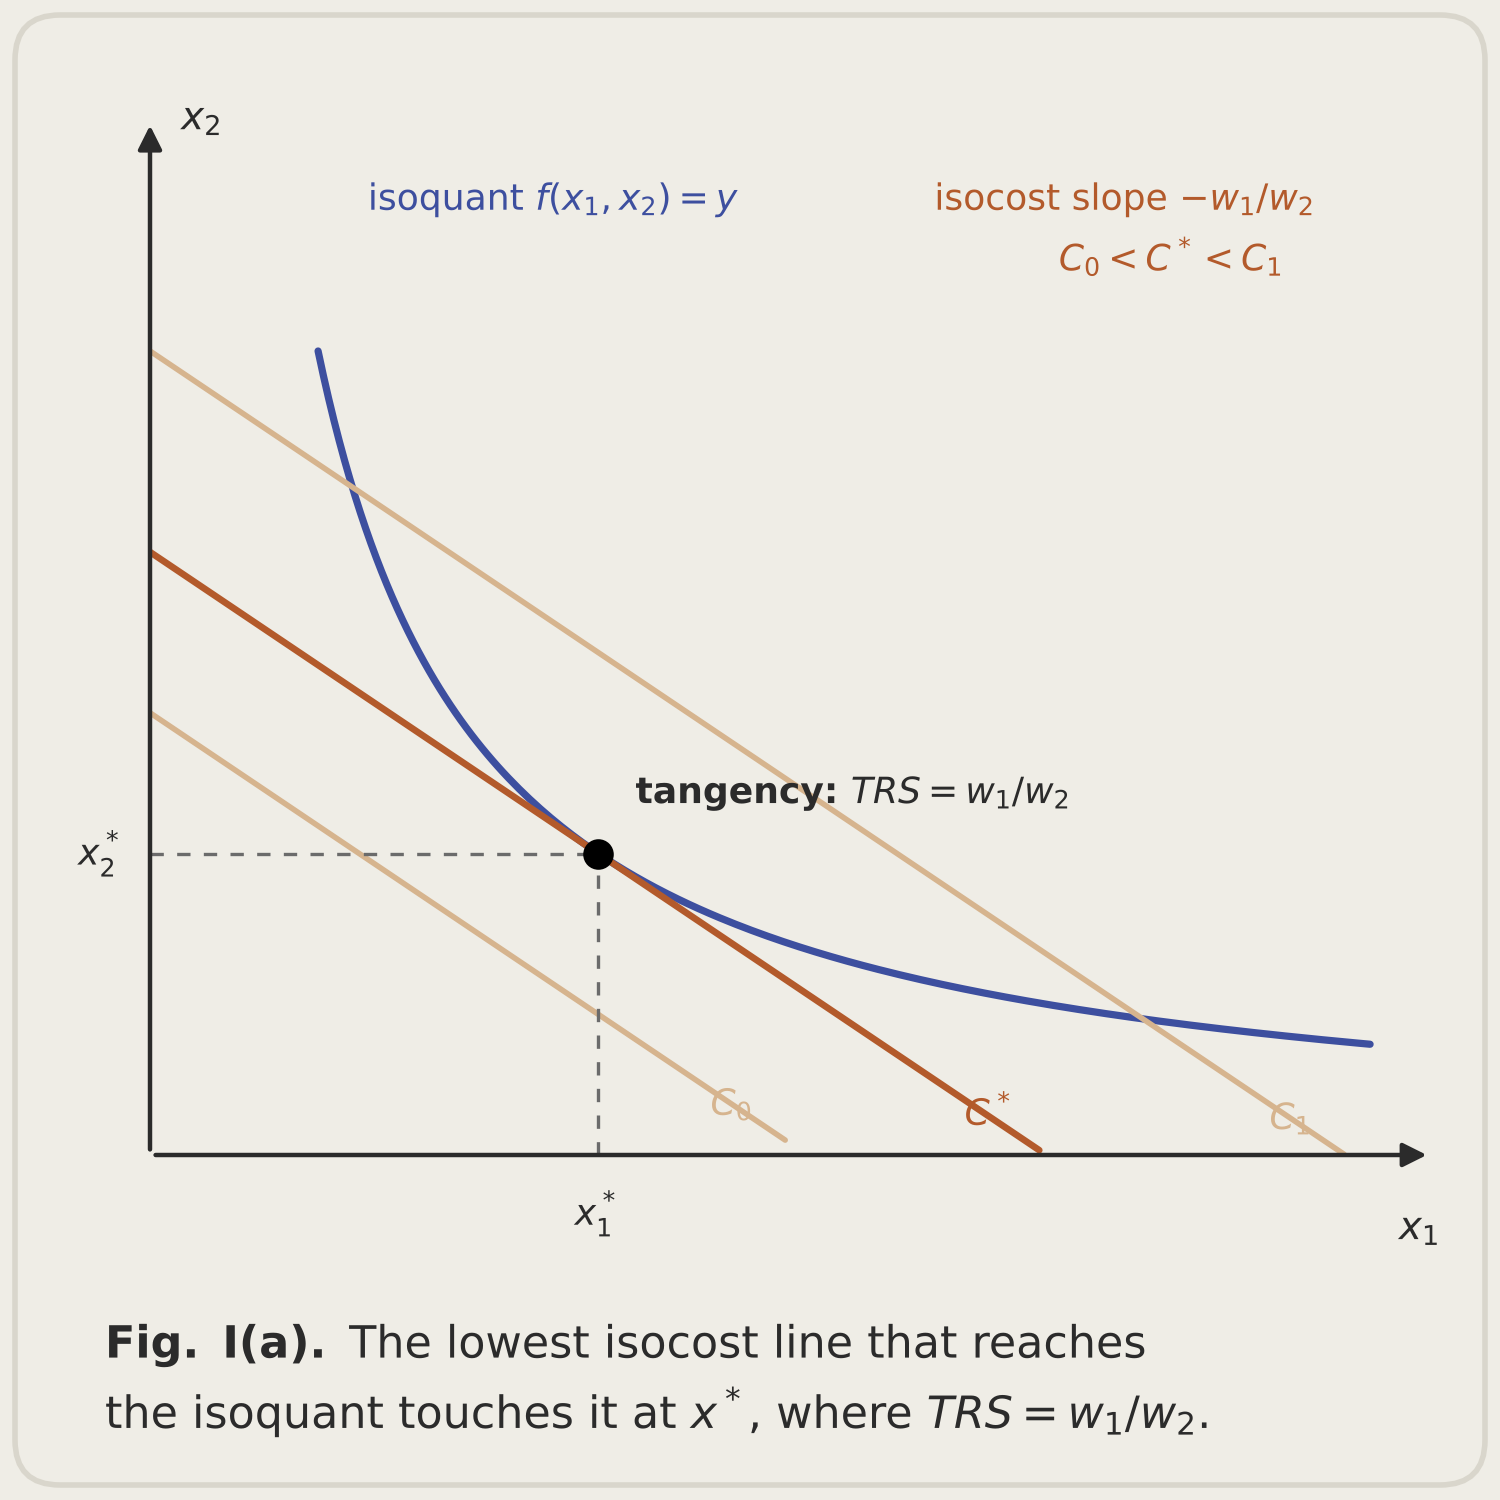
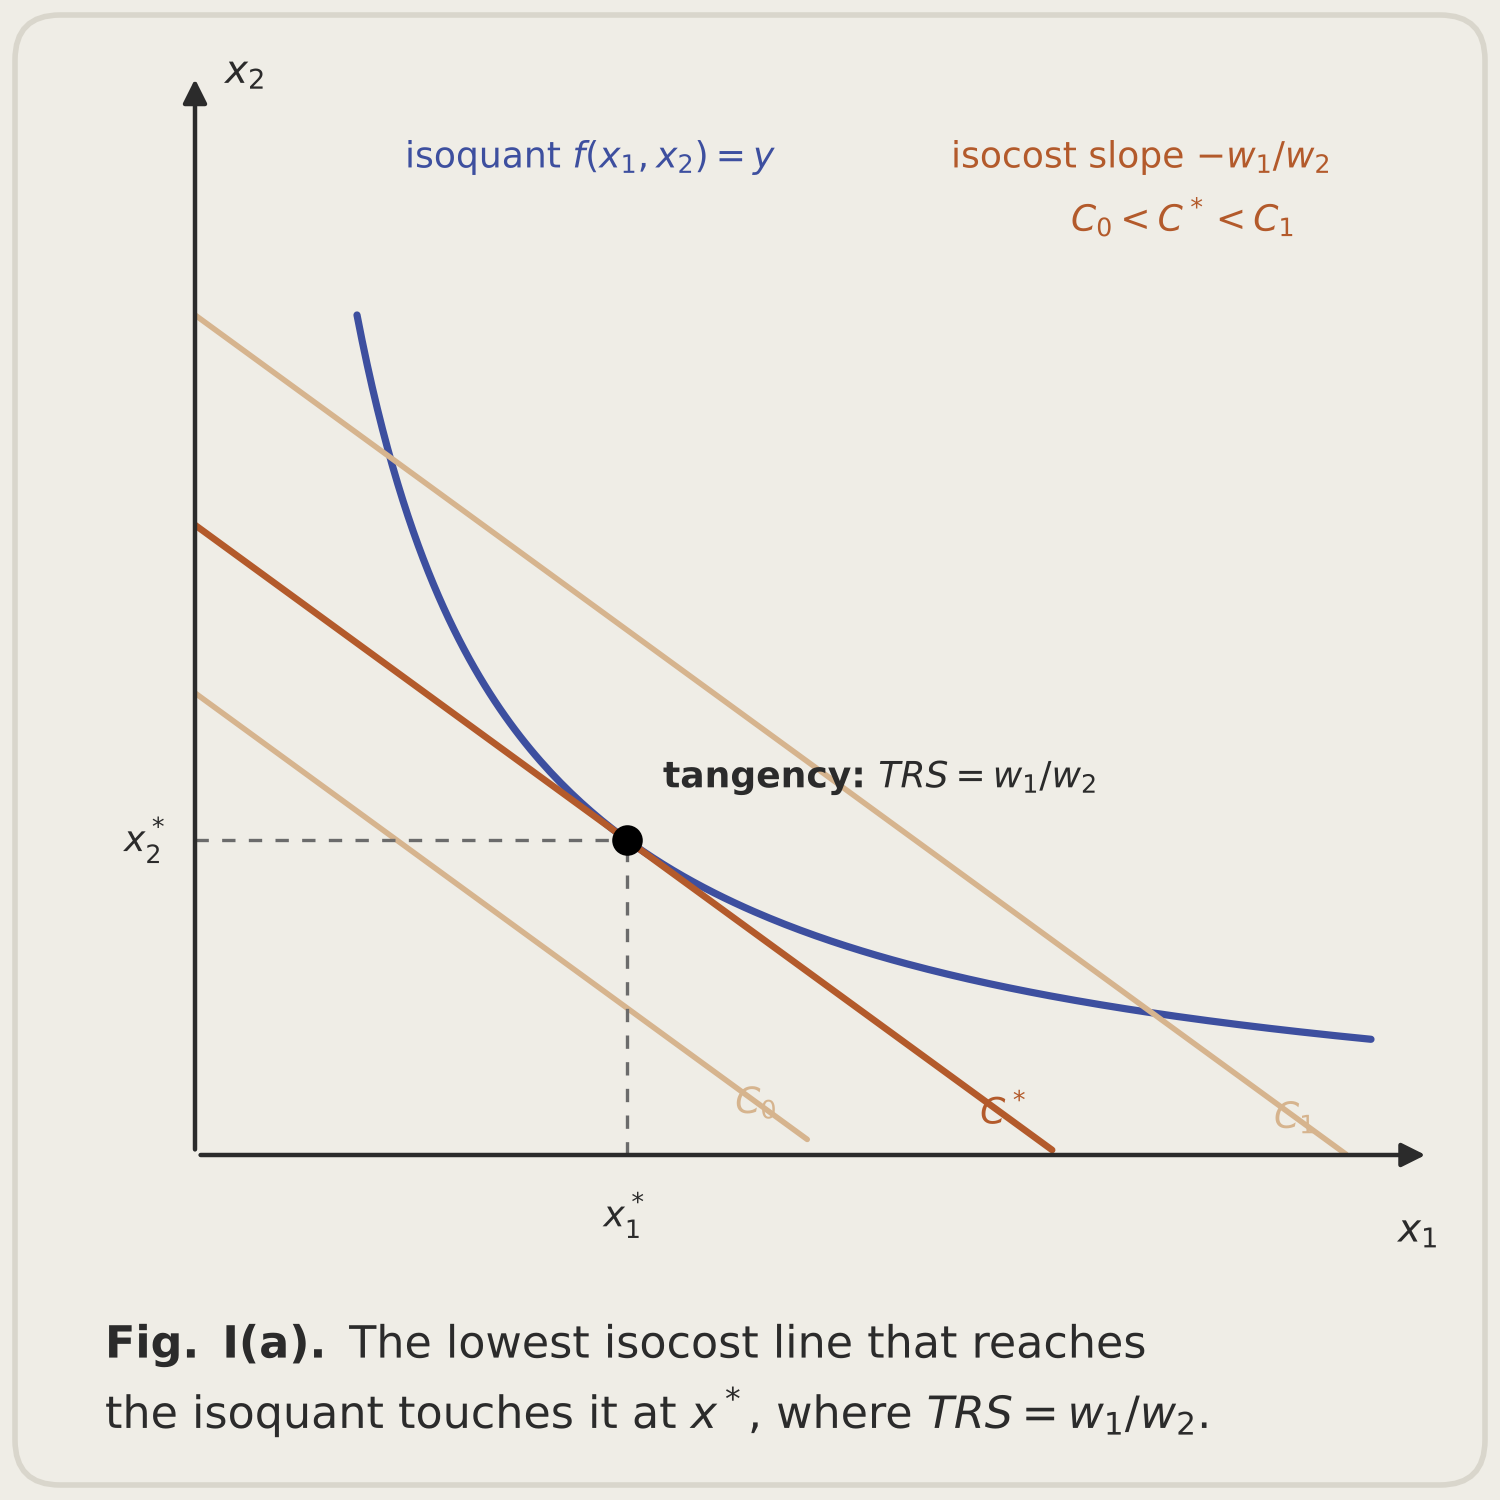
Add Part 2 graphs (problems 4-6) and stacked panels in the style
Claude-Session: https://claude.ai/code/session_01GrLPLDb2MYZvdJNfQK7ri5

diff --git a/graphs/part2.py b/graphs/part2.py
@@ -1,0 +1,111 @@
+"""Graphs for Part 2: problems 4.2, 4.3, 5.2 and 6.2."""
+import os
+import sys
+import numpy as np
+
+sys.path.insert(0, os.path.dirname(os.path.abspath(__file__)))
+import econ_style as es
+
+OUT = os.path.join(os.path.dirname(os.path.abspath(__file__)), "part2")
+os.makedirs(OUT, exist_ok=True)
+
+# ---------- Problem 4: IS-LM (r, Y) on top, PC (π − π^e, Y) below ----------
+X4 = lambda y: (y - 2600) / 50          # Y 2600..3100
+R4 = lambda r: r / 0.005                # r 0..0.05
+P4 = lambda v: 4 + 60 * v               # π − π^e, zero axis at height 4
+Ys = np.linspace(2650, 3080, 50)
+
+
+def islm_pc(caption, shock):
+    fig, (top, bot) = es.figure(["Y", "Y"], ["r", r"$\pi - \pi^e$"], caption=caption,
+                                size=(8, 13), nrows=2, xaxis_y=[0, 4])
+    es.line(top, X4(Ys), R4((3900 - Ys) / 30000), es.NAVY, label="IS", at=0, dx=0.1, dy=0.3)
+    es.line(bot, X4(Ys), P4((Ys - 2850) / 3000), es.TAN if shock else es.NAVY,
+            label="PC (m = 0.03)" if shock else "PC", at=-1, dx=-0.2, dy=0.35, ha="right")
+    es.line(top, [0, 10], [R4(0.03)] * 2, es.TAN if shock else es.RUST,
+            label="LM: r = 0.03", at=0, dx=0.3, dy=-0.6)
+    es.project(top, X4(3000), R4(0.03), "3000", "0.03")
+    es.point(top, X4(3000), R4(0.03), "A = A'" if shock else "A", dx=0.1, dy=0.35)
+    es.project(bot, X4(3000), P4(0.05), None, "0.05", y0=4)
+    es.point(bot, X4(3000), P4(0.05), "A", dx=0.25, dy=-0.6)
+    bot.plot([X4(3000)] * 2, [0, 4], ls=(0, (4, 4)), color=es.MUTED, lw=1.2)
+    bot.text(X4(3000), -0.35, "3000", ha="center", va="top", fontsize=13)
+    bot.plot([X4(2850)] * 2, [0, 4], ls=(0, (4, 4)), color=es.MUTED, lw=1.2)
+    bot.text(X4(2850), -0.35, "$Y_n$\n2850", ha="center", va="top", fontsize=13)
+    bot.plot(X4(2850), 4, "o", ms=7, color=es.NAVY if not shock else es.TAN)
+    if not shock:
+        es.note(bot, X4(2850) + 0.3, P4(0.05) + 0.6, "output gap = 150\nπ = 0.02 + 0.05 = 0.07")
+        return fig
+    es.line(bot, X4(Ys), P4((Ys - 2790) / 3000), es.RUST, label="PC' (m = 0.05)",
+            at=-1, dx=-0.2, dy=0.35, ha="right")
+    es.arrow(bot, (X4(2930), P4(0.027) + 0.2), (X4(2880), P4(0.03) + 0.9), es.RUST)
+    es.project(bot, X4(3000), P4(0.07), None, "0.07", y0=4)
+    es.point(bot, X4(3000), P4(0.07), "A'", dx=0.25, dy=0.1)
+    bot.plot(X4(2790), 4, "o", ms=10, color="black", zorder=6)
+    bot.text(X4(2790) - 0.2, 4.5, "A''", fontsize=14, fontweight="bold", ha="right")
+    bot.plot([X4(2790)] * 2, [0, 4], ls=(0, (4, 4)), color=es.MUTED, lw=1.2)
+    bot.text(X4(2790), -0.35, "$Y_n'$\n2790", ha="center", va="top", fontsize=13)
+    es.line(top, [0, 10], [R4(0.037)] * 2, es.RUST, label="LM': r = 0.037", at=0, dx=0.3, dy=0.25)
+    es.arrow(top, (X4(2700), R4(0.0305)), (X4(2700), R4(0.0365)), es.RUST)
+    es.project(top, X4(2790), R4(0.037), "2790", "0.037")
+    es.point(top, X4(2790), R4(0.037), "A''", dx=-0.25, dy=0.35, ha="right")
+    return fig
+
+
+es.save(islm_pc("Fig. 4.2. With r = 0.03 output is 3000, above $Y_n$ = 2850: the positive output "
+                "gap pushes inflation 5 points above expected inflation.", shock=False),
+        os.path.join(OUT, "4_2_islm_pc.png"))
+es.save(islm_pc("Fig. 4.3. The higher mark-up lowers $Y_n$ to 2790 and shifts PC up (A to A'); the "
+                "central bank raises r to 0.037 and moves the economy to A''.", shock=True),
+        os.path.join(OUT, "4_3_islm_pc_markup.png"))
+
+# ---------- Problem 5: Keynesian cross, ε from 1 to 1.5 ----------
+X5 = lambda y: (y - 1600) / 70          # zoomed: Y and Z from 1600 to 2300
+fig, ax = es.figure("Y", "Z", size=(8, 8.4),
+                    caption="Fig. 5.2. The 50% real appreciation lowers autonomous demand "
+                            "(exports fall) and output drops from 2000 to 1928.6.")
+yy = np.linspace(1600, 2290, 50)
+ax.plot(X5(yy), X5(yy), color=es.MUTED, lw=1.2)
+es.note(ax, X5(2150), X5(2250), "45°: Z = Y", es.MUTED, ha="right")
+es.line(ax, X5(yy), X5(1000 + 0.5 * yy), es.TAN, label="Z (ε = 1)", at=0, dx=0.1, dy=0.3)
+es.line(ax, X5(yy), X5(900 + 0.5333 * yy), es.RUST, label="Z' (ε = 1.5)", at=0, dx=0.1, dy=-0.65)
+es.arrow(ax, (X5(1780), X5(1890) + 0.05), (X5(1780), X5(1849.3) - 0.1), es.RUST)
+es.project(ax, X5(2000), X5(2000), "2000", "2000")
+es.project(ax, X5(1928.6), X5(1928.6), "1928.6", "1928.6")
+es.point(ax, X5(2000), X5(2000), "A", dx=-0.3, dy=0.3, ha="right")
+es.point(ax, X5(1928.6), X5(1928.6), "B", dx=0.25, dy=-0.5)
+es.save(fig, os.path.join(OUT, "5_2_keynesian_cross.png"))
+
+# ---------- Problem 6: money market (left) and IS-LM (right) ----------
+M6 = lambda m: (m - 2500) / 45          # M/P 2500..2950
+I6 = lambda i: i / 0.01                 # i 0..0.1
+X6 = lambda y: (y - 2700) / 80          # Y 2700..3500
+fig, (mm, il) = es.figure(["M/P", "Y"], ["i", "i"], size=(14, 7.6), ncols=2,
+                          caption="Fig. 6.2. G rises: IS shifts right and Y rises to 3200 at "
+                                  "$i = i^f$; money demand rises and the central bank expands "
+                                  "money supply to keep i at 5%.")
+iv = np.linspace(0, 0.095, 30)
+es.line(mm, M6(2700 - 1200 * iv), I6(iv), es.NAVY, label="$M^d$ (Y = 3000)", at=-1,
+        dx=-0.15, dy=0.1, ha="right")
+es.line(mm, M6(2880 - 1200 * iv), I6(iv), es.GREEN, label=r"$M^{d\prime}$ (Y = 3200)", at=0,
+        dx=0.15, dy=0.3)
+es.line(mm, [M6(2640)] * 2, [0, 9.7], es.TAN, label="$M^s$", dx=-0.15, dy=0.1)
+es.line(mm, [M6(2820)] * 2, [0, 9.7], es.RUST, label=r"$M^{s\prime}$", dx=-0.15, dy=0.1)
+es.arrow(mm, (M6(2680), 8.3), (M6(2790), 8.3), es.RUST)
+es.project(mm, M6(2640), I6(0.05), "2640", "0.05")
+es.project(mm, M6(2820), I6(0.05), "2820")
+es.point(mm, M6(2640), I6(0.05), "A", dx=-0.25, dy=0.3, ha="right")
+es.point(mm, M6(2820), I6(0.05), "B")
+yv = np.linspace(2800, 3200, 30)
+es.line(il, X6(yv), I6((3200 - yv) / 4000), es.TAN, label="IS (G = 780)", at=0, dx=0.2, dy=-0.1)
+yv = np.linspace(3000, 3400, 30)
+es.line(il, X6(yv), I6((3400 - yv) / 4000), es.RUST, label="IS' (G = 880)", at=0, dx=0.2,
+        dy=-0.1)
+es.line(il, [0, 10], [I6(0.05)] * 2, es.NAVY, label="LM: $i = i^f = 0.05$", at=0, dx=0.3, dy=0.3)
+es.arrow(il, (X6(2930), I6(0.0725)), (X6(3130), I6(0.0725)), es.RUST)
+es.project(il, X6(3000), I6(0.05), "3000", "0.05")
+es.project(il, X6(3200), I6(0.05), "3200")
+es.point(il, X6(3000), I6(0.05), "A", dx=-0.25, dy=0.3, ha="right")
+es.point(il, X6(3200), I6(0.05), "B")
+es.save(fig, os.path.join(OUT, "6_2_money_market_islm.png"))
+print("ok")

diff --git a/graphs/econ_style.py b/graphs/econ_style.py
@@ -29,23 +29,29 @@ plt.rcParams.update({
 })
 
 
-def figure(xlabel, ylabel, caption=None, size=(7.5, 7.5), ncols=1):
-    """Card-style figure. Returns (fig, axes); axes is a list when ncols > 1."""
-    fig, axes = plt.subplots(1, ncols, figsize=size)
-    axes = [axes] if ncols == 1 else list(axes)
+def figure(xlabel, ylabel, caption=None, size=(7.5, 7.5), ncols=1, nrows=1, xaxis_y=None):
+    """Card-style figure. Returns (fig, axes); axes is a flat list when there are several panels.
+
+    xaxis_y: per panel, the height (0..10) of the horizontal axis, e.g. 5 for a Phillips-curve
+    panel where π − π^e can be negative.
+    """
+    n = ncols * nrows
+    fig, axes = plt.subplots(nrows, ncols, figsize=size, squeeze=False)
+    axes = list(axes.flat)
     fig.patch.set_facecolor(CARD)
-    labels = [(xlabel, ylabel)] * ncols if isinstance(xlabel, str) else list(zip(xlabel, ylabel))
-    for ax, (xl, yl) in zip(axes, labels):
+    labels = [(xlabel, ylabel)] * n if isinstance(xlabel, str) else list(zip(xlabel, ylabel))
+    xaxis_y = xaxis_y or [0] * n
+    for ax, (xl, yl), y0 in zip(axes, labels, xaxis_y):
         ax.set_facecolor(CARD)
         for s in ax.spines.values():
             s.set_visible(False)
         ax.set_xticks([]); ax.set_yticks([])
         ax.set_xlim(0, 10); ax.set_ylim(0, 10)
-        ax.annotate("", xy=(10.3, 0), xytext=(0, 0), annotation_clip=False,
+        ax.annotate("", xy=(10.3, y0), xytext=(0, y0), annotation_clip=False,
                     arrowprops=dict(arrowstyle="-|>", color=INK, lw=1.6, mutation_scale=18))
         ax.annotate("", xy=(0, 10.3), xytext=(0, 0), annotation_clip=False,
                     arrowprops=dict(arrowstyle="-|>", color=INK, lw=1.6, mutation_scale=18))
-        ax.text(10.2, -0.55, xl, ha="center", va="top", fontsize=14)
+        ax.text(10.2, y0 - 0.55, xl, ha="center", va="top", fontsize=14)
         ax.text(0.25, 10.3, yl, ha="left", va="center", fontsize=14)
     lines = 0
     if caption:
@@ -57,8 +63,8 @@ def figure(xlabel, ylabel, caption=None, size=(7.5, 7.5), ncols=1):
         fig.text(0.07, 0.035 + 0.045 * lines * 7.5 / size[1], "\n".join(wrapped),
                  fontsize=16, va="top", linespacing=1.5)
     bottom = 0.1 + (0.05 * lines + 0.03) * 7.5 / size[1] if caption else 0.08
-    fig.subplots_adjust(left=0.1, right=0.93, top=0.9, bottom=bottom, wspace=0.25)
-    return fig, (axes[0] if ncols == 1 else axes)
+    fig.subplots_adjust(left=0.13, right=0.93, top=0.93, bottom=bottom, wspace=0.25, hspace=0.3)
+    return fig, (axes[0] if n == 1 else axes)
 
 
 def line(ax, x, y, color=NAVY, lw=2.4, label=None, at=-1, dx=0.1, dy=0.15, ha="left", **kw):
